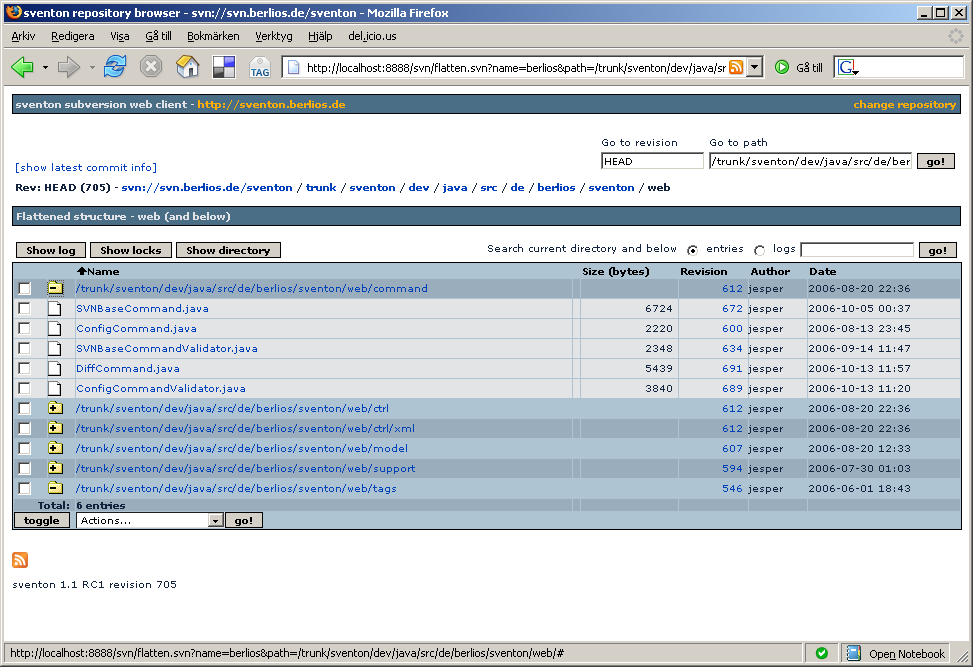
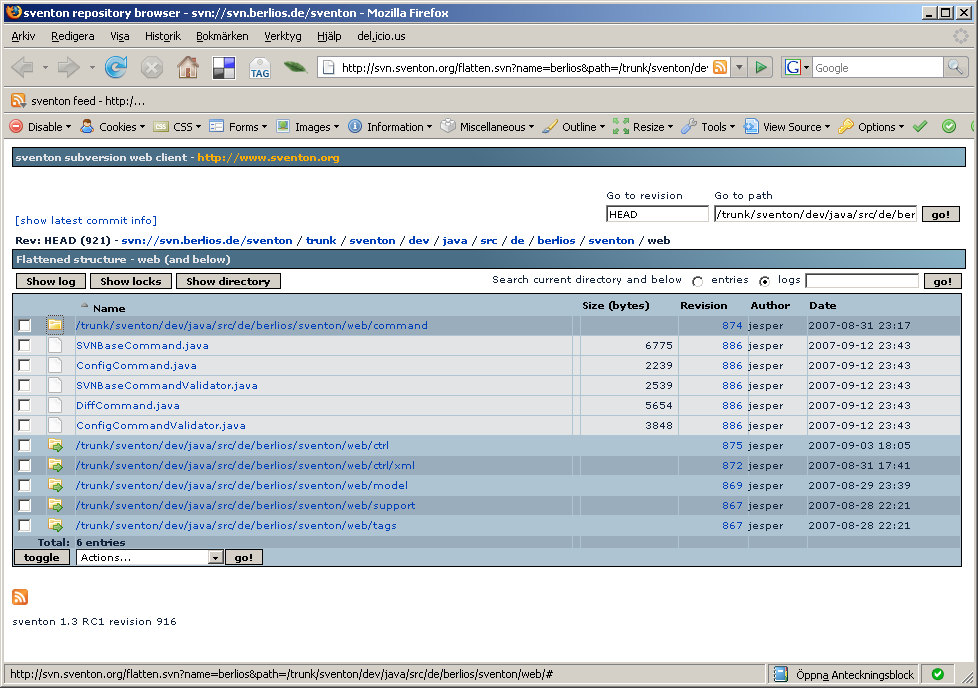
Merged 1.3 branch, revisions 914-935.

diff --git a/sventon/dev/java/web/js/sventon.js b/sventon/dev/java/web/js/sventon.js
@@ -267,7 +267,7 @@ function showHideHelp(helpDiv, id) {
 }
 
 // Gets the log message for given revision.
-function getLogMessage(revision, instanceName) {
+function getLogMessage(revision, instanceName, date) {
   var url = 'getmessage.ajax';
   var urlParams = 'revision=' + revision + '&name=' + instanceName;
   var divName = 'msg' + revision + 'Div';
@@ -280,12 +280,30 @@ function getLogMessage(revision, instanceName) {
     },
     onFailure: reportAjaxError
   });
-  return Tip('<div id=\"' + divName + '\" style=\"width: 350px;\"><img src=\"images/spinner.gif\" alt=\"spinner\"/></div>', TITLE, 'Log message', BORDERCOLOR, '#3e647e', BGCOLOR, '#ffffff');
+  return Tip('<div id=\"' + divName + '\" style=\"width: 350px;\"><img src=\"images/spinner.gif\" alt=\"spinner\"/></div>', TITLE, 'Log message: ' + date, BORDERCOLOR, '#3e647e', BGCOLOR, '#ffffff');
+}
+
+function highlightBlameRev(revision) {
+  var tags = $('blameTable').getElementsByTagName('td');
+  setBackgroundColor(tags, 'blameRev_' + revision, '#dddddd');
+}
+
+function restoreBlameRev(revision) {
+  var tags = $('blameTable').getElementsByTagName('td');
+  setBackgroundColor(tags, 'blameRev_' + revision, '#ffffff');
 }
 
 // ===============================================================================================
 // Utility functions
 // ===============================================================================================
+
+function setBackgroundColor(tags, cssName, color) {
+  for (var i = 0; i < tags.length; i++) {
+    if (tags[i].className == cssName) {
+        tags[i].style.backgroundColor = color;
+    }
+  }
+}
 
 function toggleInnerHTML(id, text1, text2) {
   var object = $(id);

diff --git a/sventon/dev/java/web/sventon.css b/sventon/dev/java/web/sventon.css
@@ -274,6 +274,10 @@ input.btn {
   padding: 0;
 }
 
+.blameAuthor {
+  background-color: white;
+}
+
 .sventonLineNo {
   color: #000000;
   background-color: white;

diff --git a/sventon/new_web/screenshots.php b/sventon/new_web/screenshots.php
@@ -1,5 +1,6 @@
 <div class="header">Screenshots</div>
 <div class="body">
+
 <p>
   <b>Mac OS X screenshots</b>
 </p>
@@ -9,24 +10,32 @@
     <th>Thumbnail image view</th>
   </tr>
   <tr>
-    <td><a href="images/screenshots/mac_flatten.png"><img width="150" height="100" alt="Flattened directory" src="images/screenshots/mac_flatten.png"/></a></td>
-    <td><a href="images/screenshots/mac_thumbnail.png"><img width="150" height="100" alt="Thumbnail image view" src="images/screenshots/mac_thumbnail.png"/></a></td>
+    <td><a href="images/screenshots/osx_flatten.png"><img width="150" height="100" alt="Flattened directory" src="images/screenshots/osx_flatten.png"/></a></td>
+    <td><a href="images/screenshots/osx_thumbnail.png"><img width="150" height="100" alt="Thumbnail image view" src="images/screenshots/osx_thumbnail.png"/></a></td>
   </tr>
   <tr>
     <th>Archive file view</th>
     <th>File view</th>
   </tr>
   <tr>
-    <td><a href="images/screenshots/mac_archive.png"><img width="150" height="100" alt="Archive file view" src="images/screenshots/mac_archive.png"/></a></td>
-    <td><a href="images/screenshots/mac_showfile.png"><img width="150" height="100" alt="File view" src="images/screenshots/mac_showfile.png"/></a></td>
+    <td><a href="images/screenshots/osx_archive.png"><img width="150" height="100" alt="Archive file view" src="images/screenshots/osx_archive.png"/></a></td>
+    <td><a href="images/screenshots/osx_showfile.png"><img width="150" height="100" alt="File view" src="images/screenshots/osx_showfile.png"/></a></td>
   </tr>
   <tr>
     <th>File diff</th>
     <th>Search logs</th>
   </tr>
   <tr>
-    <td><a href="images/screenshots/mac_diff.png"><img width="150" height="100" alt="File diff" src="images/screenshots/mac_diff.png"/></a></td>
-    <td><a href="images/screenshots/mac_logsearch.png"><img width="150" height="100" alt="Search logs" src="images/screenshots/mac_logsearch.png"/></a></td>
+    <td><a href="images/screenshots/osx_diff.png"><img width="150" height="100" alt="File diff" src="images/screenshots/osx_diff.png"/></a></td>
+    <td><a href="images/screenshots/osx_logsearch.png"><img width="150" height="100" alt="Search logs" src="images/screenshots/osx_logsearch.png"/></a></td>
+  </tr>
+  <tr>
+    <th>Blame</th>
+    <th></th>
+  </tr>
+  <tr>
+    <td><a href="images/screenshots/osx_blame.png"><img width="150" height="100" alt="Blame" src="images/screenshots/osx_blame.png"/></a></td>
+    <td></td>
   </tr>
 </table>
 
@@ -58,6 +67,14 @@
   <tr>
     <td><a href="images/screenshots/win_diff.png"><img width="150" height="100" alt="File diff" src="images/screenshots/win_diff.png"/></a></td>
     <td><a href="images/screenshots/win_logsearch.png"><img width="150" height="100" alt="Search logs" src="images/screenshots/win_logsearch.png"/></a></td>
+  </tr>
+  <tr>
+    <th>Blame</th>
+    <th></th>
+  </tr>
+  <tr>
+    <td><a href="images/screenshots/win_blame.png"><img width="150" height="100" alt="Blame" src="images/screenshots/win_blame.png"/></a></td>
+    <td></td>
   </tr>
 </table>
 </div>

diff --git a/sventon/new_web/index.php b/sventon/new_web/index.php
@@ -87,11 +87,11 @@
       </td>
     </tr>
     <tr>
-      <td width="484" height="53" valign="top" style="padding-right:65px;padding-top:20px;" class="body">
+      <td width="484" height="53" valign="top" style="padding-right:65px;padding-top:20px;" class="body" align="left">
         <?php require($includepage); ?>
       </td>
 
-      <td width="216" valign="top">
+      <td width="216" valign="top" align="left">
         <!-- Dowload box -->
         <table width="100%" border="0" cellspacing="0" cellpadding="3" style="margin-top:20px">
           <tr>
@@ -99,7 +99,7 @@
           </tr>
           <tr>
             <td class="downloadBody">
-              <?php require('download.php'); ?>
+              <?php require('downloads.php'); ?>
             </td>
           </tr>
         </table>
@@ -125,9 +125,9 @@
                     $item = $rss->items[$counter];
                     $published = parse_w3cdtf($item['published']);
                     $title = $item['title'];
-                    echo "<li style=\"white-space: nowrap;\"><b>";
+                    echo "<li><b>";
                     echo date("Y-m-d", $published);
-                    echo " - <a href=\"index.php?page=news#$counter\">$title</a></b></li>\r";
+                    echo "<br/><a href=\"index.php?page=news#$counter\">$title</a></b></li>\r";
                     $counter++;
                   }
                 ?>

diff --git a/sventon/dev/java/src/de/berlios/sventon/web/ctrl/ShowFileController.java b/sventon/dev/java/src/de/berlios/sventon/web/ctrl/ShowFileController.java
@@ -33,9 +33,7 @@ import javax.servlet.http.HttpServletResponse;
 import java.io.ByteArrayInputStream;
 import java.io.ByteArrayOutputStream;
 import java.util.HashMap;
-import java.util.List;
 import java.util.Map;
-import java.util.zip.ZipEntry;
 import java.util.zip.ZipInputStream;
 
 /**
@@ -125,11 +123,10 @@ public final class ShowFileController extends AbstractSVNTemplateController impl
     } else if (isArchiveFileExtension(svnCommand)) {
       if (archivedEntry == null) {
         logger.debug("File identified as an archive file");
-        final Map<String, List<ZipEntry>> model1 = new HashMap<String, List<ZipEntry>>();
         getRepositoryService().getFile(repository, svnCommand.getPath(), revision.getNumber(), outStream);
         final ArchiveFile archiveFile = new ArchiveFile(outStream.toByteArray());
-        model1.put("entries", archiveFile.getEntries());
-        modelAndView = new ModelAndView("showarchivefile", model1);
+        model.put("entries", archiveFile.getEntries());
+        modelAndView = new ModelAndView("showarchivefile", model);
       } else {
         logger.debug("Archived entry: " + archivedEntry);
         model.put("archivedEntry", archivedEntry);

diff --git a/sventon/new_web/downloads.php b/sventon/new_web/downloads.php
@@ -1,9 +1,9 @@
 <b>Available versions:</b><br/>
 
 <div style="padding-left:3px;padding-top:5px;">
-  <a href="http://developer.berlios.de/project/showfiles.php?group_id=3670" onClick="javascript:urchinTracker ('/downloads/v13rc1'); ">
-    <img src="images/disk.png" align="absmiddle" vspace="2" hspace="6" border="0"/>1.3 RC1 (beta)</a>
-  <a href="/download/sventon-1.3rc1-r916-bin.zip" onClick="javascript:urchinTracker ('/downloads/v13rc1');">(mirror)</a>
+  <a href="http://developer.berlios.de/project/showfiles.php?group_id=3670" onClick="javascript:urchinTracker ('/downloads/v13rc3'); ">
+    <img src="images/disk.png" align="absmiddle" vspace="2" hspace="6" border="0"/>1.3 RC3 (beta)</a>
+  <a href="/download/sventon-1.3rc3-r934-bin.zip" onClick="javascript:urchinTracker ('/downloads/v13rc3');">(mirror)</a>
   <br/>
 
   <a href="http://developer.berlios.de/project/showfiles.php?group_id=3670" onClick="javascript:urchinTracker ('/downloads/v120'); ">

diff --git a/sventon/dev/java/src/de/berlios/sventon/util/HTMLCreator.java b/sventon/dev/java/src/de/berlios/sventon/util/HTMLCreator.java
@@ -105,7 +105,7 @@ public final class HTMLCreator {
       if (logEntryPath.getCopyPath() != null) {
         sb.append("<br/><b>Copy from</b> ");
         sb.append("<a href=\"").append(response.encodeURL(createGoToUrl(
-            baseURL, logEntryPath.getCopyPath(), logEntryPath.getCopyRevision(), instanceName, linkToHead)));
+            baseURL, logEntryPath.getCopyPath(), logEntryPath.getCopyRevision(), instanceName, false)));
         if (showLatestRevInfo) {
           sb.append("&showlatestrevinfo=true");
         }

diff --git a/sventon/new_web/faq.php b/sventon/new_web/faq.php
@@ -85,7 +85,6 @@
     <th>Container</th>
     <th>Protocols</th>
     <th>Java version</th>
-    <th>Tester</th>
     <th>Version</th>
   </tr>
   <tr>
@@ -94,8 +93,7 @@
     <td>Tomcat 5.5.9</td>
     <td>svn/dav</td>
     <td>1.5.0_04</td>
-    <td>sventon committer</td>
-    <td>1.3 RC1</td>
+    <td>1.2.0</td>
   </tr>
   <tr>
     <td>Mac OS X 10.4.3</td>
@@ -103,7 +101,6 @@
     <td>Tomcat 5.5.9</td>
     <td>svn/dav</td>
     <td>1.5.0_05</td>
-    <td>sventon committer</td>
     <td>RC4</td>
   </tr>
 </table>
